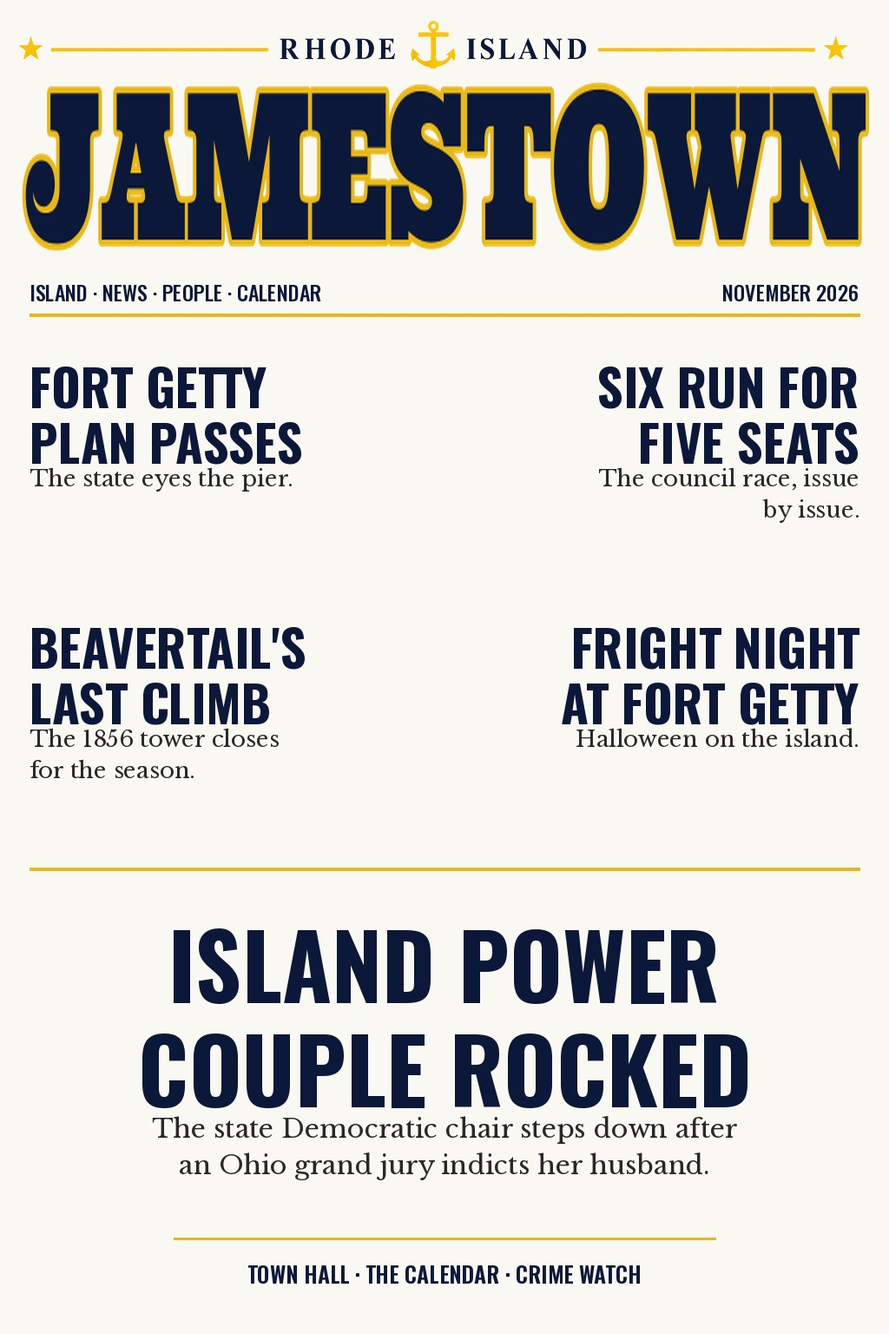
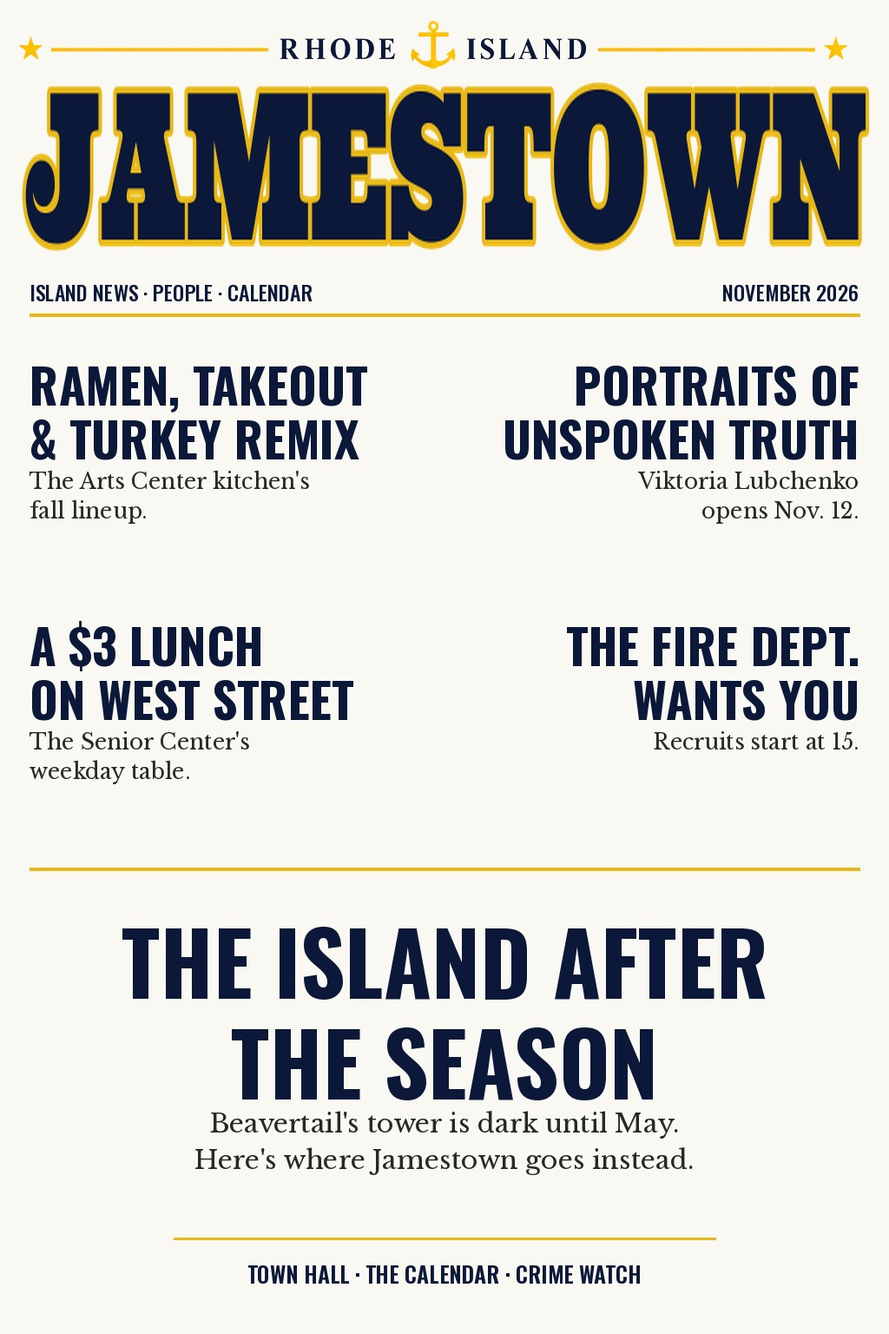
Jamestown: drop Jamestown Press material; stories from the island calendar
Claude-Session: https://claude.ai/code/session_01HzTCsfZS4MqjMgPbRA9Xs3

diff --git a/jamestown/index.html b/jamestown/index.html
@@ -1156,21 +1156,16 @@ h2.room{text-shadow:0 2px 0 #000,0 0 30px rgba(0,0,0,.7)!important;filter:satura
 </div>
 
 <script>
-const STORIES=[{"slug": "perik-quits-as-democratic-chair", "topic": "cover", "date": "2026-10-20", "minutes": 2, "title": "Island Power Couple Rocked: Perik Quits Dem Post", "dek": "Jamestown's Liz Beretta-Perik steps down as state Democratic chair after an Ohio grand jury indicts her husband in an alleged $20 million college scheme.", "body": ["Two weeks before Election Day, the most powerful Democrat living on Conanicut Island has walked away from her post. Liz Beretta-Perik, who has chaired the Rhode Island Democratic Party since November 2023, resigned on Tuesday after her husband was indicted in Ohio, the Jamestown Press reported.", "Beretta-Perik herself has not been named or charged in connection with the case. After the indictment became public on Monday, she said it had nothing to do with her or her role leading the party, according to the Press, which said she did not respond to its calls and emails.", "## The Ohio case", "Michael Perik, also of Jamestown, was indicted by an Ohio grand jury on Oct. 8 on 12 felony counts, the Press reported. He is one of three people accused of allegedly siphoning about $20 million from Eastern Gateway Community College in Steubenville, Ohio, a school that shut down in 2025 after 57 years.", "Prosecutors allege the defendants diverted Pell grants, other federal aid and state subsidies through fraudulent reimbursements and illegal incentive payments. The indictment alleges Perik used four for-profit companies he owned to move college money, and that those firms were not the independent contractors federal law requires. The counts listed by the Press include a pattern of corrupt activity, aggravated theft of $1.5 million or more, bribery, telecommunications fraud and money laundering.", "Also charged are Nicole Rowe Colclasure and Michael Geoghegan, the college's former president and chief financial officer. According to the paper, Ohio Auditor Keith Faber said the probe began after authorities got tips about questionable purchases by college officials between 2017 and 2022.", "> Perik's lawyer calls the case political retribution and says no crimes occurred.", "## The defense", "Perik's attorney, Brad Barbin, told the Press there were no crimes, noting that several state and federal bodies had reviewed the college and that the U.S. Justice Department agreed in 2024 to drop a federal action against it. All charges remain allegations, and none of the three has been convicted.", "## Fallout on the trail", "The case quickly spilled into the fall campaign. Democratic nominee for governor Helena Foulkes publicly called for Beretta-Perik to step aside, the Press reported. Republican U.S. Senate nominee Raymond McKay went further, urging Sen. Jack Reed, another Jamestown resident, to return $8,000 in donations from the Periks.", "For a small island that turned out at the highest rate in the state in September's primary, it is an unwelcome jolt heading into the final stretch."], "sources": [{"outlet": "Jamestown Press", "title": "Scandal forces Perik out as Dem chair", "date": "2026-10-22", "url": "https://www.jamestownpress.com/articles/scandal-forces-perik-out-as-dem-chair/"}]}, {"slug": "halloween-concert-and-fright-night", "topic": "music", "date": "2026-10-23", "minutes": 2, "title": "Theremins, Witch Dancers and a Bonfire: Island Halloween", "dek": "The Community Band tackles a fiendish Morton Gould score while Fort Getty's Fright Night brings live music, food trucks and a lantern walk.", "body": ["Halloween on Conanicut Island has a soundtrack this year, and it includes a theremin.", "## The band plays spooky", "The Jamestown Community Band staged its ninth straight Halloween concert Friday night, Oct. 23, at the recreation center on Conanicus Avenue, the Jamestown Press reported. Admission was free, kids were urged to come in costume, and band members handed out treats.", "Conductor Don Smith told the Press the band had kicked around switching to an autumn theme this year but stuck with the holiday. The roughly hour-long, no-intermission program ran ten numbers, opening with Robert Sheldon's \"The Phantom of Dark Hollow\" and closing on medleys from \"Harry Potter,\" \"The Phantom of the Opera\" and \"Wicked,\" with a Danny Elfman set and crowd favorites \"Coffin Races\" and \"The Tarantula\" along the way.", "> Smith called Morton Gould's 1948 \"Halloween\" a big challenge.", "The new piece on the stand was Gould's \"Halloween,\" in a revision by R. Mark Rogers. Flutist Laura Wolfe, the band's board president, told the paper it was the hardest piece to learn. Wolfe also played the theremin, the eerie electronic instrument you play by waving your hands near its antennas. The band now counts nearly 40 members, three of them new since last Halloween, and its next show is the December Christmas concert.", "## Fright Night at Fort Getty", "The party moves outdoors Saturday, Oct. 24, for Fright Night VI at Fort Getty, from 4 to 7:30 p.m., the Press reported. Parks and recreation director Ray DeFalco's department runs the free event, which drew nearly 600 cars and 1,800 visitors last year.", "Purple Honey, a band mixing reggae, rock, jazz and pop, provides the live music. There are carnival games, a costume contest for all ages, a Halloween village where decorated RV sites hand out candy, and a spooky lantern walk sponsored by the Jamestown Arts Center. The Southern New England Witch Dancers, led by island resident Bernie Courtney and affiliated with Germany's Wolfshager Hexenbrut, are on the bill. Food trucks bring brisket, ribs, ramen, poke and more, and a bonfire closes the night.", "## The parade gets a new boss", "The village parade steps off at 4:30 p.m. on Oct. 31 from St. Matthew's Episcopal Church down Narragansett Avenue to East Ferry, and for the first time it is run by parks and recreation instead of the Jamestown Women's Club, which told the Press the crowds had outgrown it. DeFalco has lined up bands to march."], "sources": [{"outlet": "Jamestown Press", "title": "LET THE MUSIC PLAY", "date": "2026-10-22", "url": "https://www.jamestownpress.com/articles/let-the-music-play-2/"}, {"outlet": "Jamestown Press", "title": "Fright Night Saturday at Fort Getty", "date": "2026-10-22", "url": "https://www.jamestownpress.com/articles/fright-night-saturday-at-fort-getty/"}, {"outlet": "Jamestown Press", "title": "Rec department takes over Halloween parade", "date": "2026-10-01", "url": "https://www.jamestownpress.com/articles/rec-department-takes-over-halloween-parade/"}]}, {"slug": "fort-getty-plan-adopted-state-eyes-pier", "topic": "politics", "date": "2026-10-19", "minutes": 2, "title": "Fort Getty Plan Passes as State Eyes the Pier", "dek": "A lame-duck council adopts a 16-point blueprint for the park while the state DEM angles for a long-term lease on its commercial pier.", "body": ["Fort Getty, the waterfront park at the island's southwest corner, had a big week at Town Hall. The Town Council adopted the final report of its ad hoc committee on the park's future, and separately let the town administrator keep talking with the state about leasing its commercial pier, the Jamestown Press reported.", "## A 3-1 vote on the blueprint", "The 55-page report, delivered about four months ago, carries 16 recommendations, according to the Press. The centerpiece is an electrical upgrade to support a 65-site RV campground. The vote was 3-1, with Councilman Eddie Ross opposed and Vice President Erik Brine absent.", "Councilwoman Mary Glackin, the only sitting councilor seeking re-election, pushed for adoption. She argued the report should steer future spending and policy, with details refined through public input, cost estimates and feasibility studies, and said the council had already acted on eight of the 16 items. Without a plan, she warned, future councils could stall for another 15 years.", "> Ross: the cost estimates still haven't arrived, through no fault of anyone's.", "Ross called adoption an empty gesture by a largely outgoing council, the paper reported. He noted that Town Administrator Ed Mello was asked in September for cost estimates that have not yet come in, and that the next council and, ultimately, voters will decide on any bonds. Council President Nancy Beye and Councilwoman Mary Meagher backed the report as a way to honor the committee's work and the money spent on it.", "## The state wants the pier", "In a parallel move, councilors approved continued talks with the Rhode Island Department of Environmental Management on keeping commercial fishing and aquaculture alive at Fort Getty, the Press reported. Mello first raised the idea Sept. 19, saying DEM was very interested and that a partnership could help unlock federal money for work near the pier.", "DEM deputy director Jason McNamee put it in writing: the agency wants to pursue a long-term lease of the commercial pier, which he said would give it more certainty for planning and upkeep, according to the Press.", "Harbor commissioner Paul Sprague objected that his board, which oversees that infrastructure, had not reviewed the proposal. The council added his condition: Mello must consult the harbor commission before going further.", "Fort Getty has also been a hot topic on the Press letters page, with readers debating whether the park's future pits residents against campers."], "sources": [{"outlet": "Jamestown Press", "title": "hoc report on Fort Getty OK'd by town", "date": "2026-10-22", "url": "https://www.jamestownpress.com/articles/hoc-report-on-fort-getty-okd-by-town/"}, {"outlet": "Jamestown Press", "title": "State seeks lease of Fort Getty pier", "date": "2026-10-22", "url": "https://www.jamestownpress.com/articles/state-seeks-lease-of-fort-getty-pier/"}]}, {"slug": "jac-imprint-and-playback", "topic": "culture", "date": "2026-10-16", "minutes": 2, "title": "RISD's Movement Lab Takes Over the Arts Center", "dek": "\"Imprint and Playback\" brings seven experimental artists to Jamestown, with a live performance and a Harlem Renaissance film screening on deck.", "body": ["The Jamestown Arts Center has turned its walls over to motion, memory and a little bit of glitch. \"Imprint and Playback,\" a group show by fellows of the Rhode Island School of Design's Movement Lab, opened with a free public reception on Friday, Oct. 16, the Jamestown Press reported.", "## Who's in it", "Curated by Africanus Okokon and L.A. Samuelson, the exhibition gathers seven artists who passed through the Movement Lab Fellowship between 2023 and 2026: Azadeh Ahmadi, Patrick Buhr, Hunter Whitaker-Morrow, Kameron Neal, Samuelson, Maxime Cavajani and Melisa Achoko Allela. The lab is based in RISD's film, animation and video department and studies movement through experimental research, according to the Press.", "The show, the paper reported, looks at how bodies, materials, ideas and memories travel across time, landscape and archive. Allela's \"Songa\" builds a database of captured motion from everyday African oral tradition. Buhr's \"We move in circles to feel the center\" uses hand-tracked animation to link viewers' bodies without contact. Whitaker-Morrow's untitled piece reworks \"Little House on the Prairie\" through a live, ever-shifting system.", "## Live, on Wednesday", "The center will host a free performance at 7 p.m. Wednesday, Oct. 28, the Press reported. Samuelson will perform \"Vertical Time. Horizontal Traffic,\" an animated companion to his installation that draws on writer John Berger's idea of home as a crossroads of two kinds of time. Whitaker-Morrow will walk through \"Untitled (Realtime System),\" built in the Max/MSP/Jitter programming environment, which generates a constantly changing cinematic collage from prairie imagery in American media.", "> The show asks how beings, materials and memories move across time.", "## Harlem on screen", "The next night, Thursday, Oct. 29 at 6 p.m., the arts center teams with newportFILM to screen \"Once Upon a Time in Harlem,\" according to the Press. The newly restored 16mm documentary, completed by director David Greaves, captures a 1972 party his father, filmmaker William Greaves, threw for surviving figures of the Harlem Renaissance, many of whom had not seen one another in about 50 years. Tickets are $25 through newportFILM.", "The arts center is also sponsoring the lantern walk at Saturday's Fright Night at Fort Getty."], "sources": [{"outlet": "Jamestown Press", "title": "Latest JAC exhibition set to open Friday evening", "date": "2026-10-15", "url": "https://www.jamestownpress.com/articles/latest-jac-exhibition-set-to-open-friday-evening/"}, {"outlet": "Jamestown Press", "title": "Free live performance at arts center", "date": "2026-10-22", "url": "https://www.jamestownpress.com/articles/free-live-performance-at-arts-center/"}]}, {"slug": "six-council-candidates-forum", "topic": "politics", "date": "2026-10-14", "minutes": 2, "title": "Six Run for Five Seats, and They Mostly Agree", "dek": "At a packed Lawn School forum, Jamestown's council hopefuls lined up on taxes, a north-end fire station and the island's affordability squeeze.", "body": ["Six candidates are chasing five Town Council seats on Nov. 3, and at their first public forum they sounded more like a slate than rivals. About 100 people turned out for the two-hour event at Lawn School on Oct. 14, the Jamestown Press reported.", "The field: independent Bob Bailey and Democrats Mary Glackin, Nick Insana, Kirstin Reveron, Richard Smith and Marisa Quinn. Glackin is the lone incumbent. The forum was sponsored by the Jamestown Shores Association and moderated by Bruce McIntyre, who is running unopposed for town moderator.", "## Taxes and the 4% line", "All six pledged to keep the tax levy under the state's 4% cap, the Press reported, even though the last two councils had flirted with seeking a waiver. Reveron would not rule out exceeding it in an emergency. The group generally favored new revenue and long-range planning over busting the cap.", "> Insana: the 4% is not a target.", "## Fixing the town meeting", "Everyone was open to reforming the financial town meeting, which the Press said draws fewer than 10% of voters. Ideas included an all-day referendum and a two-day format floated by Insana, presentations one day and voting the next, an approach first proposed by the board of canvassers. Bailey questioned whether a public vote can be free of intimidation, citing uniformed firefighters filling the room, and Insana and Quinn acknowledged the concern.", "## Fire, campers and costs", "All backed a north-end fire substation. Glackin said it took 45 minutes for help to reach her Schooner Avenue home when her shed caught fire, according to the Press. The candidates also supported the Fort Getty RV campground, and all agreed affordability is the island's biggest challenge.", "Asked what they would change, Smith, Reveron and Insana pointed to short-term rentals, Bailey called for more fiscal discipline, and Quinn wanted more support for civic life.", "A second forum, focused on water, shore access, Gould Island and environmental policy, was set for Oct. 21 at the Philomenian Library, co-hosted by the conservation commission and the Audubon Society of Rhode Island, the Press reported. Early voting runs weekdays at Town Hall through Nov. 2. The ballot also asks voters whether to let the town issue up to $3 million in bonds for affordable housing."], "sources": [{"outlet": "Jamestown Press", "title": "6 council candidates not far apart on main issues", "date": "2026-10-22", "url": "https://www.jamestownpress.com/articles/6-council-candidates-not-far-apart-on-main-issues/"}, {"outlet": "Jamestown Press", "title": "Two upcoming council candidate forums; first one at 6 p.m. Oct. 14", "date": "2026-10-09", "url": "https://www.jamestownpress.com/articles/two-upcoming-council-candidate-forums-first-one-at-6-p-m-oct-14/"}, {"outlet": "Jamestown Press", "title": "Early voting opens for general election", "date": "2026-10-15", "url": "https://www.jamestownpress.com/articles/early-voting-opens-for-general-election/"}]}, {"slug": "beavertail-last-climb-of-2026", "topic": "people", "date": "2026-10-12", "minutes": 2, "title": "Last Climb of the Year at Beavertail Light", "dek": "On a brilliant Columbus Day, visitors lined up to climb the 1856 granite tower one last time before it closes for the season.", "body": ["After a day of torrential rain, Columbus Day broke clear over Narragansett Bay, and a line formed at the base of Beavertail Lighthouse. Monday, Oct. 12, was the last scheduled tower climb of 2026, the Jamestown Press reported.", "## Up the tower", "The trip to the top of the 64-foot granite tower, built in 1856 at the island's southern tip, takes 49 steps and a 7-foot ladder, according to the Press. Columbus Day traditionally marks the season's final regular climb.", "First-timer John Manzotti told the paper the view was one he didn't think could be beaten, while his wife, recovering from knee surgery, watched from the rocks below. Lifelong islander Matt Goodburn said he never knew the public could climb the tower at all. His family roots run deep: his great-grandfather worked the old ferry, and a great-uncle told him stories of the 1938 hurricane, the Press reported.", "> Goodburn, a lifelong islander, had no idea visitors could climb it.", "Volunteer docent Howard Williams, a longtime Navy veteran, filled in climbers on the keepers who once tended the light. These days the U.S. Coast Guard maintains Rhode Island's lighthouses, Beavertail included, according to the Press. The Beavertail Lighthouse Museum Association kept its museum and small aquarium open during the climb.", "## One more party", "The association wasn't quite done for the season. It threw a \"Boo-tiful Beavertail Halloween Party\" on Saturday, Oct. 17, with trick-or-treating at the lighthouse, a costume contest and late hours at the aquarium, where young visitors studied marine creatures with magnifying glasses, the Press reported. The light's mascot made an appearance too: Council President Nancy Beye, in a beaver suit.", "The Press also noted plans for a rare sundown tower climb, weather permitting, with children required to be at least 4 feet tall.", "## Down the road at Fort Wetherill", "Elsewhere on the southern shore, Save The Bay recruited volunteers to clean trash from the 51-acre Fort Wetherill park on Sunday, Oct. 18, as part of the International Coastal Cleanup, the Press reported. Last year, nearly 3,000 Rhode Island volunteers hauled in more than 15,500 pounds of litter. And at Mackerel Cove, 18 volunteers with the conservation commission planted dune grass to help the beach withstand rising seas."], "sources": [{"outlet": "Jamestown Press", "title": "Beavertail Lighthouse set to close for year", "date": "2026-10-15", "url": "https://www.jamestownpress.com/articles/beavertail-lighthouse-set-to-close-for-year/"}, {"outlet": "Jamestown Press", "title": "EARLY HALLOWEEN AT BEAVERTAIL", "date": "2026-10-22", "url": "https://www.jamestownpress.com/articles/early-halloween-at-beavertail/"}, {"outlet": "Jamestown Press", "title": "Volunteers needed to clean up Fort Wetherill coast", "date": "2026-10-15", "url": "https://www.jamestownpress.com/articles/volunteers-needed-to-clean-up-fort-wetherill-coast/"}, {"outlet": "Jamestown Press", "title": "GETTING THINGS DUNE", "date": "2026-10-22", "url": "https://www.jamestownpress.com/articles/getting-things-dune/"}]}, {"slug": "1985-cold-case-arrest", "topic": "streets", "date": "2026-10-06", "minutes": 1, "title": "Arrest in 1985 Cold Case Death of Jamestown Woman", "dek": "A Smithfield man is held without bail, charged with murder in a strangling that went unsolved for four decades.", "body": ["For 41 years, the death of a young Jamestown woman on a Newport sidewalk had no suspect. That changed this month when William Morton, 61, of Smithfield was charged with first-degree murder, the Jamestown Press reported.", "## The charge", "Morton is accused of strangling the 22-year-old woman in 1985, according to the Press. He was arraigned on a Tuesday in Newport County District Court and is being held without bail. The charge is an allegation; the Press report does not indicate that he has entered a plea, been tried or been convicted.", "## How the case went cold", "Her body was discovered on the morning of May 20, 1985, on a sidewalk in Newport, the paper reported. An autopsy ruled the death a homicide caused by asphyxiation from strangulation, but investigators at the time identified no suspects, and the file sat for nearly four decades.", "In 2023, investigators reopened it to apply new forensic DNA analysis and other modern techniques, the Press reported. The arrest came out of a joint investigation by Attorney General Peter Neronha's office and the Newport Police Department.", "> Neronha: victims and their loved ones deserve answers and, ultimately, justice.", "## A unit on a run", "Neronha, himself a Jamestown resident, said his office's cold case unit has solved four previously unsolved cases over the past year using DNA technology, according to the Press. Neronha is term-limited and leaves office in January; the race to succeed him is on the Nov. 3 ballot.", "The case now moves through Newport County courts. As with any criminal charge, Morton is presumed innocent unless proven guilty."], "sources": [{"outlet": "Jamestown Press", "title": "Smithfield man charged in 1985 cold case killing of local woman, then 22", "date": "2026-10-08", "url": "https://www.jamestownpress.com/articles/smithfield-man-charged-in-1985-cold-case-killing-of-local-woman-then-22/"}]}, {"slug": "town-hall-housing-hauling-paving", "topic": "housing", "date": "2026-10-05", "minutes": 2, "title": "Trash Hauler Sold, Housing Deal Delayed, Roads Funded", "dek": "A busy Oct. 5 council session touched Island Rubbish's sale, an affordable home on Pemberton Avenue and a paving grant, as a $3 million housing bond heads to voters.", "body": ["Not every Town Council night makes headlines, but the Oct. 5 session quietly reshaped a few things islanders use every week, from curbside pickup to the roads, the Jamestown Press reported.", "## New owner for Island Rubbish", "Island Rubbish, the Teixeira family's longtime trash and recycling hauler, is being sold to Eastern Waste Services of North Kingstown, formerly Charlie's Old Time Rubbish Removal, according to the Press. Town Administrator Ed Mello said the buyer committed in writing to honor the town's $1.2 million contract, which runs to October 2028 with a five-year extension option. Councilors approved reassigning it, pending the solicitor's review.", "> Mello on Island Rubbish crews: they're attentive at the curb.", "Mello credited the crews' habit of checking bins at the curb for keeping Jamestown's recycling rejection rate likely lower than anywhere else in the state, the paper reported.", "## An affordable home, on hold", "The town's deal to buy 73 Pemberton Ave. has a new closing deadline of July 2027, five months later than planned, the Press reported. Under the $475,000 agreement with owners John Preece and Kathryn Koken, the lot will be split: the town takes a 15,300-square-foot parcel with the existing house, to become a single-family affordable unit, while the owners build a new home on the remaining land. A block grant covers $245,000 and the affordable housing trust fund $230,000. Mello said construction of the owners' new house won't be done in time, prompting the extension.", "Affordable housing is on the ballot, too. Voters will decide Nov. 3 whether to let the town issue up to $3 million in bonds for affordable housing projects, according to the Press. Meanwhile, Looking Upwards, which runs Out of the Box Studio & Gallery on Clinton Avenue, honored Providence nonprofit SWAP for developing 2 Hammett Court, a 12-apartment complex for low- and moderate-income families that includes people with disabilities.", "## Pavement and personnel", "Councilors also authorized Mello to sign a $147,396 state paving grant for town roads, the Press reported. It requires a $294,792 local match, due by the end of 2029, for $442,188 in total. And Mello proposed folding the recreation department's two full-time maintenance workers into the highway department, opening room for a second foreman, with the change targeted for the winter off-season."], "sources": [{"outlet": "Jamestown Press", "title": "Island Rubbish slated to be sold; move won't impact town's contract", "date": "2026-10-08", "url": "https://www.jamestownpress.com/articles/island-rubbish-slated-to-be-sold-move-wont-impact-towns-contract/"}, {"outlet": "Jamestown Press", "title": "Date for town to take over Pemberton Avenue property extended 5 months", "date": "2026-10-08", "url": "https://www.jamestownpress.com/articles/date-for-town-to-take-over-pemberton-avenue-property-extended-5-months/"}, {"outlet": "Jamestown Press", "title": "Nearly $150K nabbed to help pave streets", "date": "2026-10-15", "url": "https://www.jamestownpress.com/articles/nearly-150k-nabbed-to-help-pave-streets/"}, {"outlet": "Jamestown Press", "title": "Mello urges maintenance staff consolidation", "date": "2026-10-08", "url": "https://www.jamestownpress.com/articles/mello-urges-maintenance-staff-consolidation/"}, {"outlet": "Jamestown Press", "title": "SWAP honored for Hammett project", "date": "2026-10-15", "url": "https://www.jamestownpress.com/articles/swap-honored-for-hammett-project/"}, {"outlet": "Jamestown Press", "title": "Early voting opens for general election", "date": "2026-10-15", "url": "https://www.jamestownpress.com/articles/early-voting-opens-for-general-election/"}]}];
+const STORIES=[{"slug": "the-island-after-the-season", "topic": "cover", "date": "2026-10-24", "minutes": 2, "title": "The Island After the Season", "dek": "Beavertail’s tower is dark until May. Here’s where Jamestown goes instead: the trail, the library, the Rec Center and a $3 lunch.", "body": ["The summer crowd is gone, the Beavertail tower and museum are closed until late May, and Jamestown belongs to Jamestown again. This is the island’s own guide to the off-season.", "## Out on the shore", "The Conanicut Island Sanctuary trail is a short loop with boardwalks and three overlooks above Marsh Meadows, off Conanicus Avenue. Dogs are welcome on a leash, but parking at the trailhead off the highway ramp is tight. Potter’s Cove and Taylor’s Point, just east of the Newport Bridge toll booth, are open year-round for claming, fishing and picnics. Boat ramps are at East Ferry, Fort Getty and Fort Wetherill.", "## Indoors", "The Jamestown Philomenian Library at 26 North Road is open Monday through Wednesday 9 a.m. to 8 p.m., Thursday and Friday 9 to 5, and Saturday 9 to 2. The Recreation Center at 41 Conanicus Avenue runs boot camp, tai chi, morning stretch and pickleball, and is home base for the Community Theatre, Community Band and Community Chorus. The Teen Center next door is open weekdays 3 to 6 p.m., with a full-court gym, pool table, air hockey, foosball and video games.", "## Lunch for $3", "The Senior Center at 6 West Street serves hot lunch weekdays from 11:15 a.m. to 12:15 p.m., with grab-and-go sandwiches from 11:30 to 12:30, for a suggested $3 donation; reserve at least 48 hours ahead at (401) 423-9804. There’s a Tuesday bridge group, a Bone Strength and Balance class and tech help through URI Cyber Seniors. St. Mark Food Pantry, 60 Narragansett Avenue, asks that you call ahead for hours: (401) 423-1421.", "> The fire department trains on Thursday nights. Recruits can start at 15.", "## Join the department", "The Jamestown Fire Department is recruiting. Fire volunteers can start in the Training Academy at 15 and become full members at 18, no experience required, with training Thursday nights. EMS volunteers need a Rhode Island EMT license, and EMT classes run each fall. Details at jamestownfd.com.", "Coming in December: the Beavertail Lighthouse holiday open house, when the fire department’s Santa hangs a wreath on the tower, and the Holiday Stroll and tree lighting at East Ferry. Dates go on the Island Calendar the moment they’re set."], "sources": [{"outlet": "The Jamestown Calendar", "title": "Coast, Parks, Library, Senior Services and Public Safety", "date": "2026-10-24", "url": "https://jamestownri.gov/"}]}, {"slug": "november-in-the-arts-center-kitchen", "topic": "food", "date": "2026-10-24", "minutes": 2, "title": "November in the Arts Center Kitchen", "dek": "Ramen from scratch, General Tso’s at home and a Thanksgiving leftovers remix: the Valley Street kitchen’s fall lineup.", "body": ["The busiest room on Valley Street this fall might be the kitchen. The Jamestown Arts Center’s hands-on cooking classes run straight through the holidays, and the menu reads like a tour of everything islanders actually want to eat in cold weather.", "## Halloween first", "It starts tonight, Saturday, October 24, at 4 p.m., with A Killer Dinner Party: a three-course Halloween dinner with spooky presentations and seasonal flavors, cooked by the people who will eat it. It runs $65, or $52 for members.", "## Takeout, made at home", "Monday, November 2, is Homemade Ramen: broth, seasoned chicken, jammy eggs, noodles and fresh toppings, built from scratch ($60, or $48 for members). The class comes back Saturday, December 5. On Saturday, November 7, Better Than Takeout teaches General Tso’s chicken and lo mein ($65, or $52 for members), with a repeat on Monday, December 28. Pad Thai gets its own night on Wednesday, December 2.", "## The holiday stretch", "Thanksgiving Remix (Monday, November 9, and again Saturday, November 21) turns leftovers into crispy egg rolls and a cranberry-barbecue turkey flatbread. Friendsgiving Appetizers (November 14 at 3 p.m., November 16 at 3 and 4 p.m.) covers baked brie, flatbread and a harvest salad. Soup & Simple Bread, tomato-basil soup with garden focaccia, is the bargain of the season at $45, or $36 for members, on November 23 and December 21.", "December brings Merry Little Appetizers (Beef Wellington bites, cranberry-orange meatballs and a Caprese candy-cane board) on December 7 and 12, and Holiday Sides (mac and cheese, stuffing and harvest salad) on December 14 and 19.", "> Tomato-basil soup and focaccia, December 21. Bring an appetite.", "Sign up through the Arts Center at 18 Valley Street, (401) 560-0979, or jamestownartcenter.org. Every date is on the Island Calendar."], "sources": [{"outlet": "The Jamestown Calendar", "title": "Arts Center Classes and Exhibits", "date": "2026-10-24", "url": "https://jamestownartcenter.org/"}]}, {"slug": "portraits-of-unspoken-truth", "topic": "culture", "date": "2026-10-24", "minutes": 1, "title": "Portraits of Unspoken Truth", "dek": "Viktoria Lubchenko’s portraits fill the Jamestown Arts Center gallery from November 12 to December 12.", "body": ["Faces are coming to Valley Street. “Portraits of Unspoken Truth,” an exhibition of portraits by Viktoria Lubchenko, opens at the Jamestown Arts Center on Thursday, November 12, and stays up through Saturday, December 12.", "Gallery hours are Wednesday through Saturday, 11 a.m. to 3 p.m., and there is no admission charge. That makes it one of the easiest hours you can spend downtown this season: walk in on a Saturday morning, then stay for the kitchen classes in the afternoon.", "## Bring the kids", "The Arts Center’s youngest artists get their own Saturdays. Step One, a guided introduction to art for ages 3 to 6, runs the first Saturday of each month (November 7 and December 5, at 10 a.m. or 1 p.m.; $10, or $8 for members, per child). Second Saturday for grades 1 to 5 builds Recycled Robots from discarded materials on November 14 and Martian Plant Life on December 12 ($15, or $12 for members; sign up at least 24 hours ahead).", "And on Monday, December 7, from 6 to 9 p.m., anyone can drop in to glaze a ceramic ornament for $15. Pieces are fired over the weekend and ready the following Monday. Children under 12 need a parent along.", "Jamestown Arts Center, 18 Valley Street, (401) 560-0979."], "sources": [{"outlet": "The Jamestown Calendar", "title": "Arts Center Classes and Exhibits", "date": "2026-10-24", "url": "https://jamestownartcenter.org/"}]}];
 __mfirst(STORIES);
 const CAL=[];
 const SCENE=[];
 const UPDATED="Oct 21, 2026";
 const COVERS=[];
 const ISSUES=[{no:1,month:'November 2026',src:"img/cover-jamestown-nov2026.jpg",lines:[
- ["perik-quits-as-democratic-chair", "Island Power Couple Rocked: Perik Quits Dem Post", "Jamestown's Liz Beretta-Perik steps down as state Democratic chair after an Ohio grand jury indicts her husband in an alleged $20 million college scheme."],
- ["halloween-concert-and-fright-night", "Theremins, Witch Dancers and a Bonfire: Island Halloween", "The Community Band tackles a fiendish Morton Gould score while Fort Getty's Fright Night brings live music, food trucks and a lantern walk."],
- ["fort-getty-plan-adopted-state-eyes-pier", "Fort Getty Plan Passes as State Eyes the Pier", "A lame-duck council adopts a 16-point blueprint for the park while the state DEM angles for a long-term lease on its commercial pier."],
- ["jac-imprint-and-playback", "RISD's Movement Lab Takes Over the Arts Center", "\"Imprint and Playback\" brings seven experimental artists to Jamestown, with a live performance and a Harlem Renaissance film screening on deck."],
- ["six-council-candidates-forum", "Six Run for Five Seats, and They Mostly Agree", "At a packed Lawn School forum, Jamestown's council hopefuls lined up on taxes, a north-end fire station and the island's affordability squeeze."],
- ["beavertail-last-climb-of-2026", "Last Climb of the Year at Beavertail Light", "On a brilliant Columbus Day, visitors lined up to climb the 1856 granite tower one last time before it closes for the season."],
- ["1985-cold-case-arrest", "Arrest in 1985 Cold Case Death of Jamestown Woman", "A Smithfield man is held without bail, charged with murder in a strangling that went unsolved for four decades."],
- ["town-hall-housing-hauling-paving", "Trash Hauler Sold, Housing Deal Delayed, Roads Funded", "A busy Oct. 5 council session touched Island Rubbish's sale, an affordable home on Pemberton Avenue and a paving grant, as a $3 million housing bond heads to voters."]
+ ["the-island-after-the-season", "The Island After the Season", "Beavertail’s tower is dark until May. Here’s where Jamestown goes instead: the trail, the library, the Rec Center and a $3 lunch."],
+ ["november-in-the-arts-center-kitchen", "November in the Arts Center Kitchen", "Ramen from scratch, General Tso’s at home and a Thanksgiving leftovers remix: the Valley Street kitchen’s fall lineup."],
+ ["portraits-of-unspoken-truth", "Portraits of Unspoken Truth", "Viktoria Lubchenko’s portraits fill the Jamestown Arts Center gallery from November 12 to December 12."]
 ]}];
 const CUR=ISSUES[ISSUES.length-1];
 const VENUES=[];
